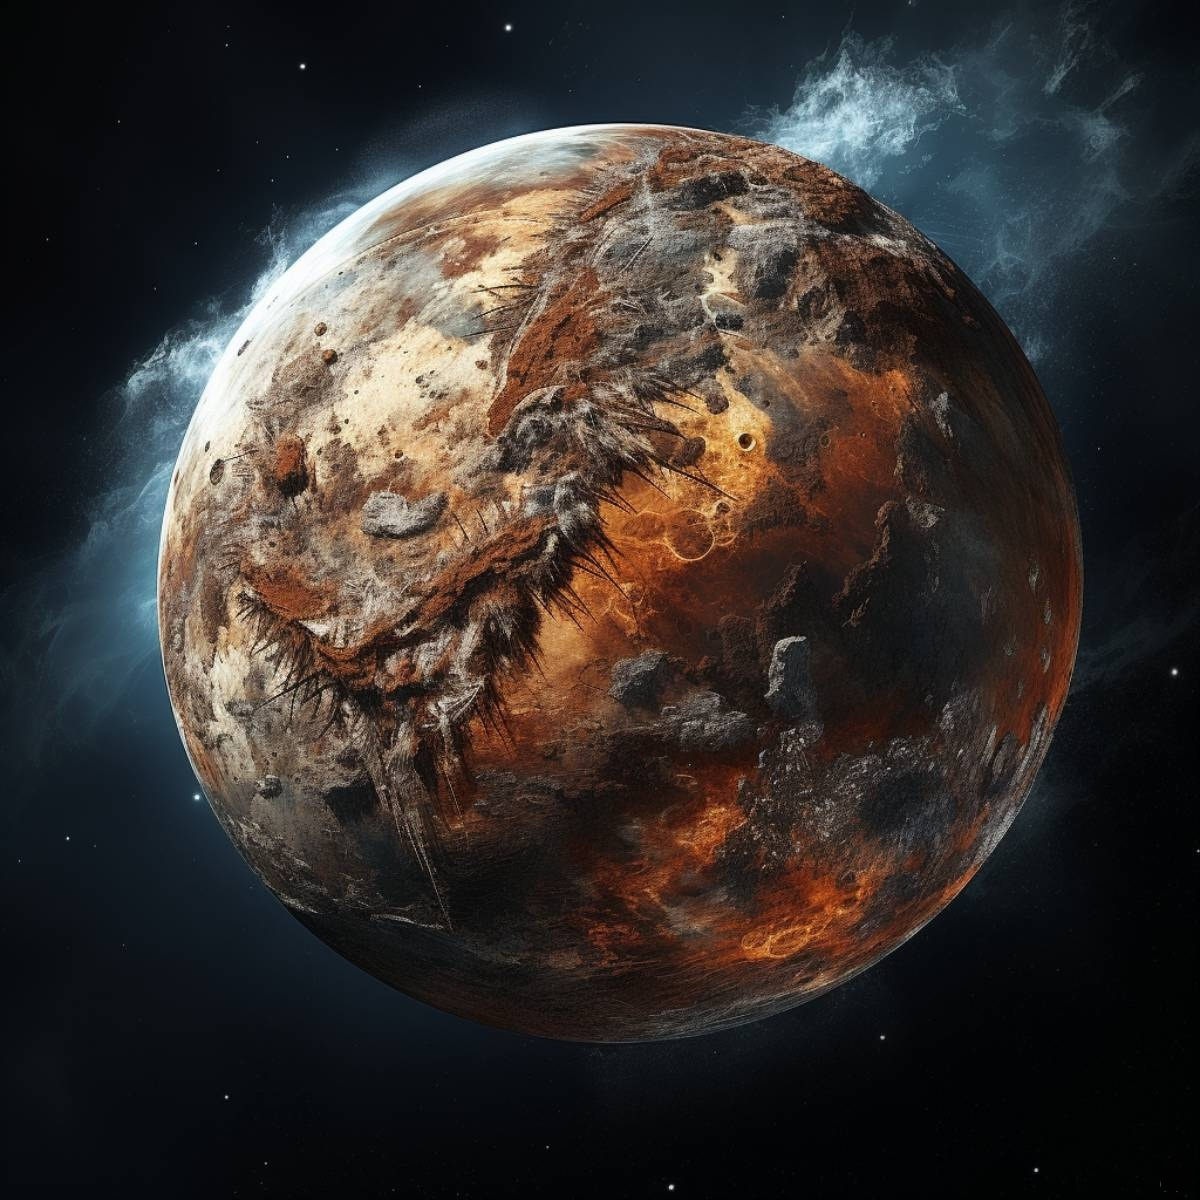
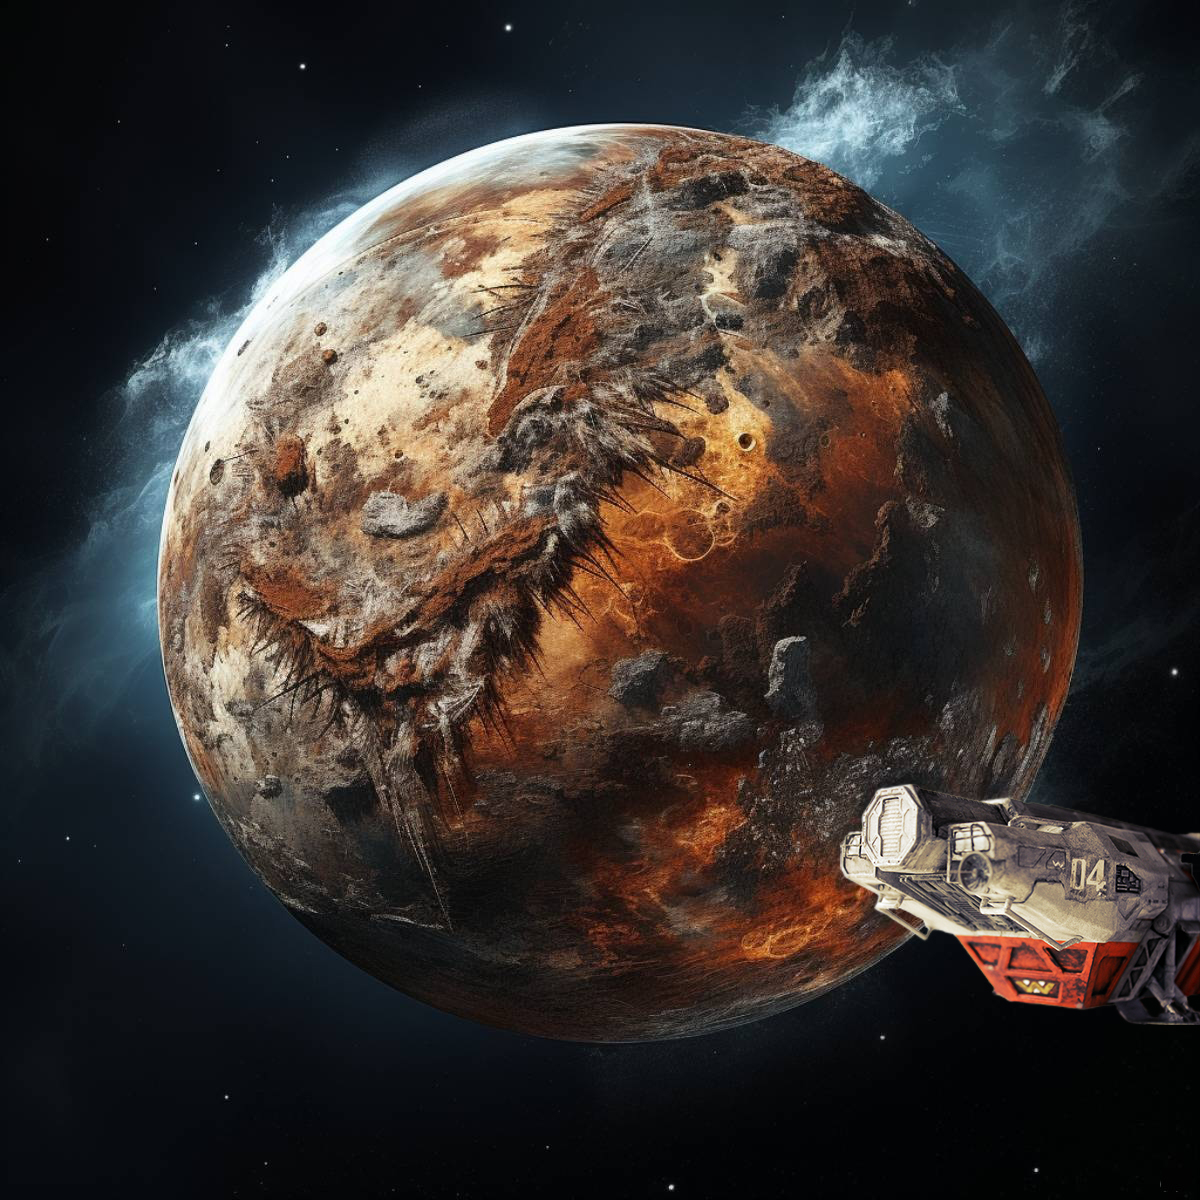
replace rusty_planet menu background image

Changed region(s): [[0.6783, 0.6475, 1.0, 0.8633]]

diff --git a/src/collider.rs b/src/collider.rs
@@ -142,7 +142,7 @@ fn player_landed_collisions_system(
     mut spaceship_just_landed_spawn_events: EventWriter<SpaceshipJustLandedEvent>,
     mut physics_time: ResMut<Time<Physics>>,
 ) {
-    for (colliding_entities, linear_velocity, transform, is_ready_to_land) in &query {
+    for (colliding_entities, &linear_velocity, transform, is_ready_to_land) in &query {
         if !colliding_entities.is_empty() {
             physics_time.pause();
             if !is_ready_to_land {
